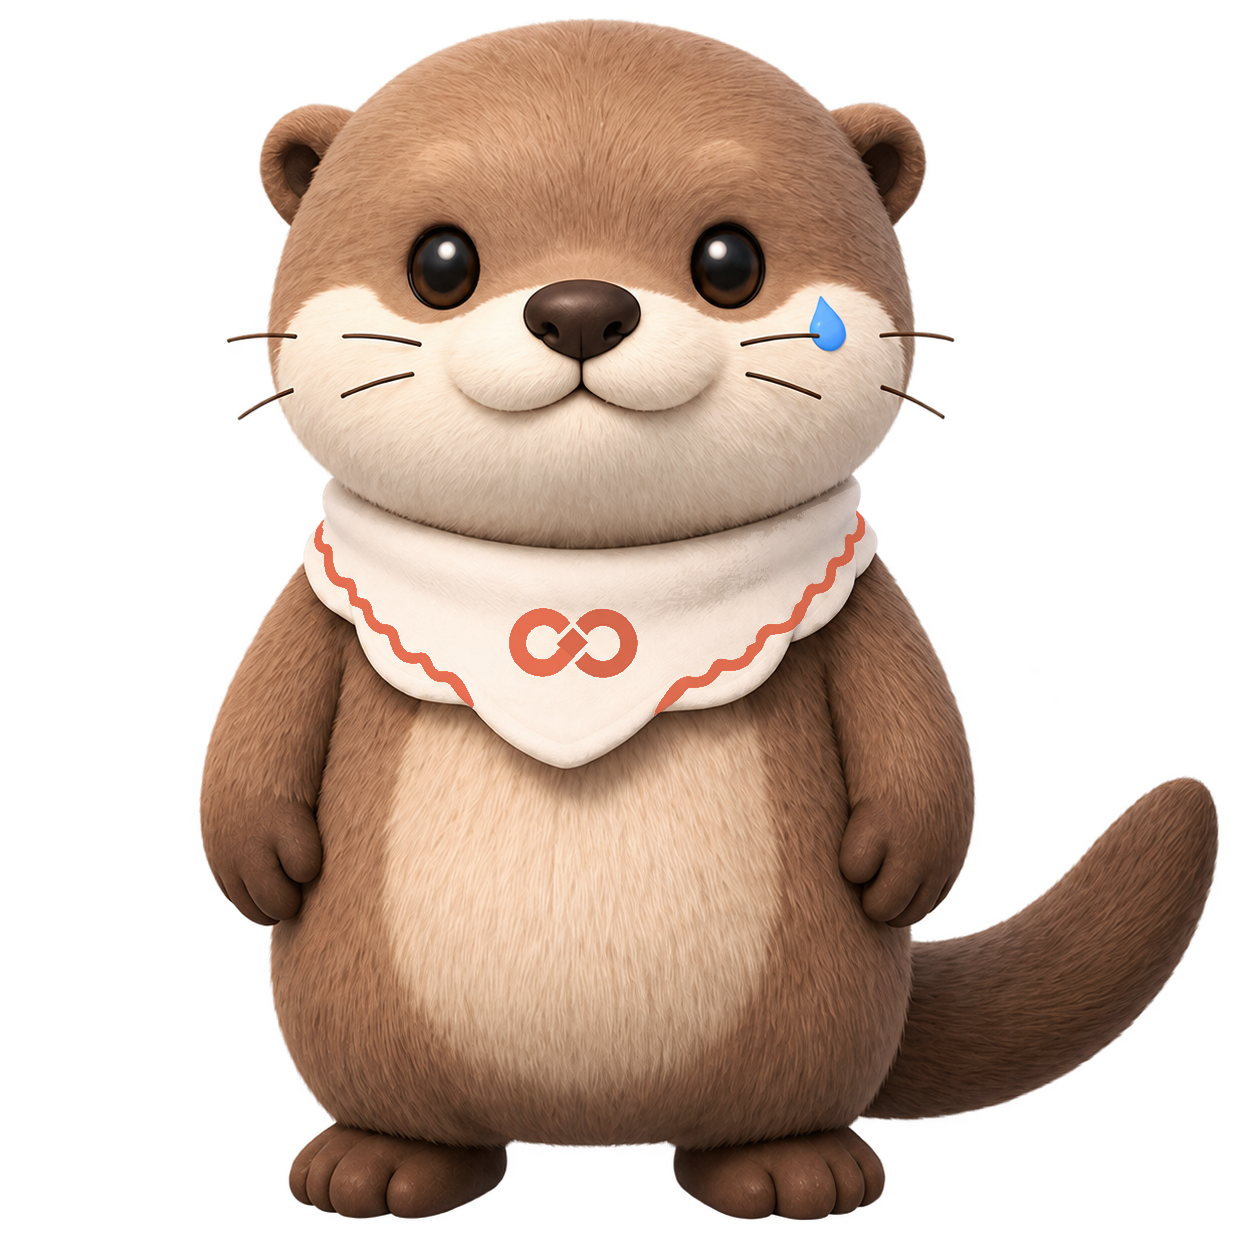
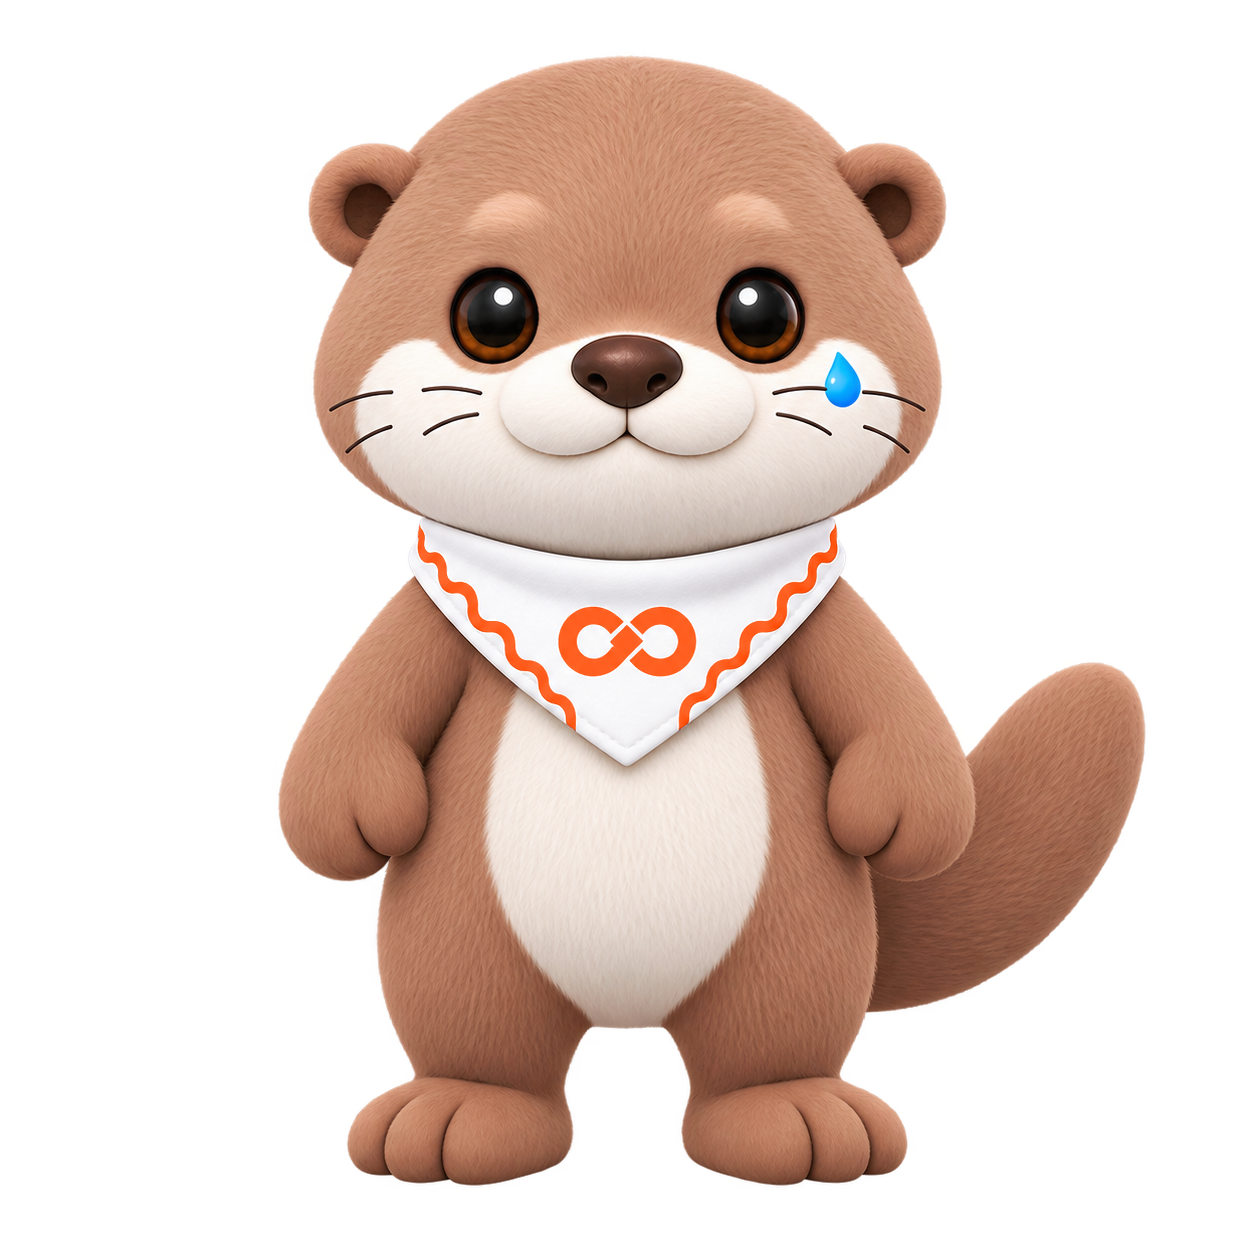
feat(mascot): align Daru idle poses with walk character

diff --git a/frontend/src/components/mascot/DaruMascot.module.css b/frontend/src/components/mascot/DaruMascot.module.css
@@ -42,7 +42,7 @@
 .renderer { position: relative; width: 100%; height: 100%; display: block; transform-origin: 50% 82%; }
 .riveCanvas { display: block; width: 100%; height: 100%; }
 .contactShadow { position: absolute; z-index: 1; left: 25%; bottom: 1.5%; width: 50%; height: 7%; border-radius: 50%; background: color-mix(in srgb, var(--color-text) 13%, transparent); filter: blur(3px); opacity: .62; transform: scaleY(.55); pointer-events: none; }
-.daruImage { position: relative; z-index: 2; display: block; width: 100%; height: 100%; margin: 0; padding: 0; border: 0; background: transparent url("/mascot/daru-idle-day.png") center / contain no-repeat; box-shadow: none; filter: drop-shadow(0 10px 14px color-mix(in srgb, var(--color-text) 14%, transparent)); transform-origin: 50% 78%; }
+.daruImage { position: relative; z-index: 2; display: block; width: 100%; height: 100%; margin: 0; padding: 0; border: 0; background: transparent url("/mascot/daru-idle-day.png") center / contain no-repeat; box-shadow: none; filter: drop-shadow(0 10px 14px color-mix(in srgb, var(--color-text) 14%, transparent)); transform: translateY(5px) scale(1.06); transform-origin: 50% 100%; }
 .spriteImage { position: relative; z-index: 2; display: block; width: 100%; height: 100%; object-fit: contain; object-position: center bottom; margin: 0; padding: 0; border: 0; background: transparent; box-shadow: none; filter: drop-shadow(0 10px 14px color-mix(in srgb, var(--color-text) 14%, transparent)); user-select: none; pointer-events: none; }
 .renderer[data-renderer="sprite"][data-facing="left"] .spriteImage { transform: scaleX(-1); }
 :global(html[data-theme="dawn"]) .daruImage { background-image: url("/mascot/daru-idle-dawn.png"); }
@@ -125,8 +125,8 @@
 .guideRoamingSetting button { min-height: 30px; padding: 0 9px; border: 1px solid var(--color-border); border-radius: 9px; background: transparent; color: var(--color-text-muted); cursor: pointer; font: inherit; font-size: 10px; font-weight: 780; }
 .guideRoamingSetting button:hover, .guideRoamingSetting button:focus-visible { border-color: color-mix(in srgb, var(--color-primary) 38%, var(--color-border)); background: var(--color-primary-soft); color: var(--color-primary); }
 @keyframes guidePanelIn { from { opacity: 0; transform: translateY(6px) scale(.98); } }
-.renderer[data-renderer="static"] { --daru-facing-angle: 3deg; transform: perspective(700px) rotateY(var(--daru-facing-angle)); transition: transform 260ms ease; }
-.renderer[data-renderer="static"][data-facing="right"] { --daru-facing-angle: -3deg; }
+.renderer[data-renderer="static"] { --daru-facing-angle: 0deg; transform: perspective(700px) rotateY(var(--daru-facing-angle)); transition: transform 260ms ease; }
+.renderer[data-renderer="static"][data-facing="right"] { --daru-facing-angle: 0deg; }
 /* Keep the branded scarf/logo orientation intact in the PNG fallback. Facing is metadata for the future Rive rig; no scaleX mirroring here. */
 .renderer[data-renderer="static"][data-locomotion="idle"][data-behavior="normal"][data-interaction="none"] { animation: naturalBreath 6.8s cubic-bezier(.37,.02,.2,1) infinite; }
 .renderer[data-renderer="static"][data-interaction="hover"] { animation: staticHover 480ms cubic-bezier(.2,.72,.18,1) 1; }
